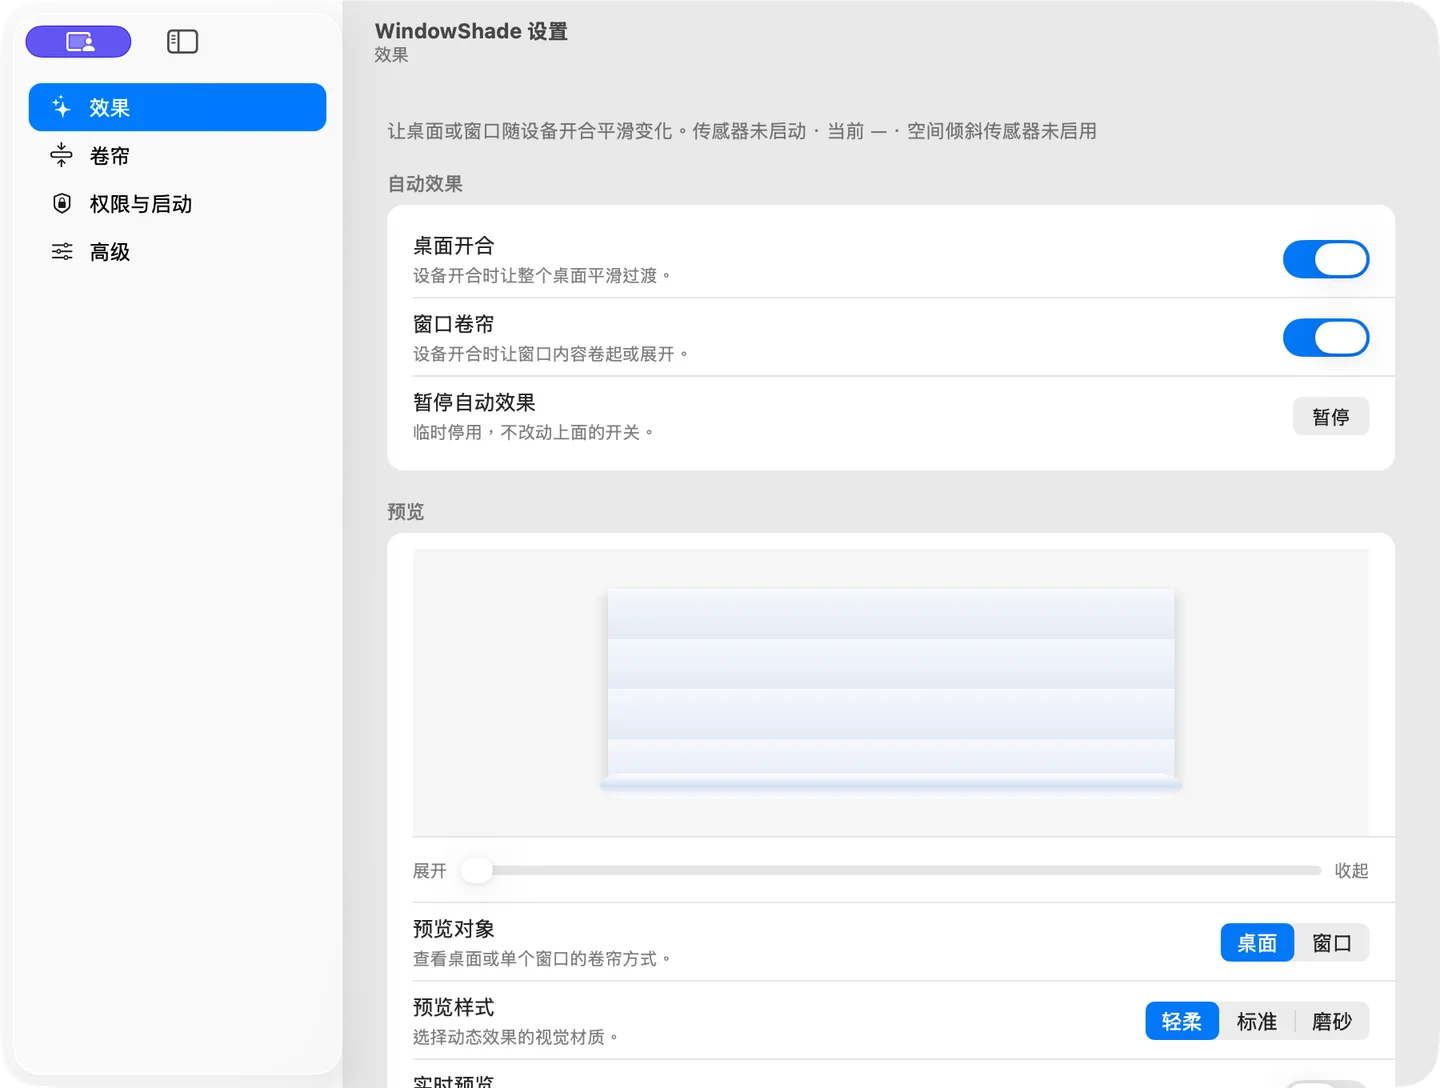
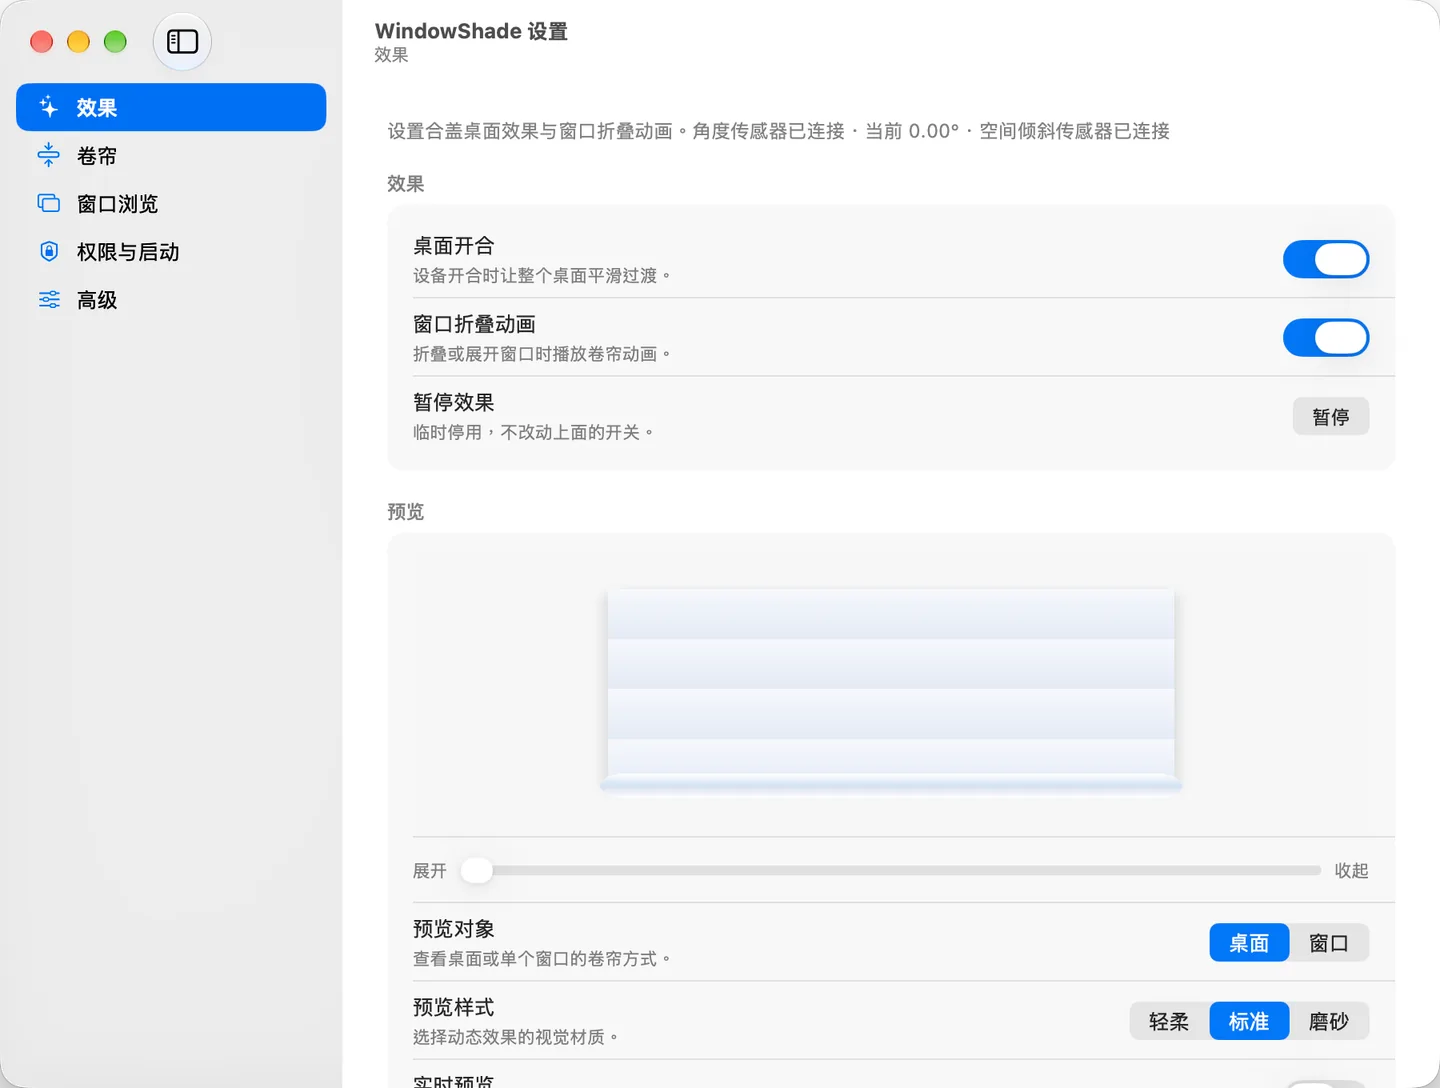
Rework the site hero, copy, and settings screenshot
The hero art was an abstract render that no longer described the app.
It is now a composition drawn with the site's own tokens (`.hero-stage`):
a window rolled into a strip, a pinned window, and a panel of windows
opened from a Dock icon. It has no text, follows the light and dark
theme, and stays sharp; `hero.webp` is a 1536 x 1024 render of the same
markup, kept for og:image. The old hand-drawn hero.svg and the
image-generation prompt file are gone.

The title and eyebrow now describe what the app does today: roll a
window away, pin what has to stay visible, or browse every window behind
a Dock icon. The closing line, meta description, and settings copy follow.

The settings section uses the author's real v1.0.12 screenshot (cropped
to the window, 1440 x 1088). The dark variant and the theme-swapping code
went away with it, and the caption no longer claims to follow the system
appearance.

deployment.json records the files served by
https://b32c91de.windowshade.pages.dev.

diff --git a/site/style.css b/site/style.css
@@ -40,6 +40,54 @@
 @media(max-width:767px){.pinning{grid-template-columns:1fr;gap:32px}.section-note{font-size:13px;max-width:430px;margin-top:18px}.pin-desk{height:300px;border-radius:18px}.pin-source{left:16px;width:82%}.pin-source strong{font-size:17px;padding:22px 18px 30px}.pin-work{right:14px;width:82%;top:112px}.shortcuts{padding-top:12px}.shortcut-list{grid-template-columns:1fr;margin-top:26px}.shortcut-list li{padding:18px 0;gap:16px;font-size:13px}.shortcut-list kbd{min-width:92px;font-size:12px;padding:7px 8px}.trust-body p{font-size:14px}}
 @media(max-width:370px){.shortcut-list kbd{min-width:82px;font-size:11px}.pin-desk{height:280px}}
 
+/* Hero stage: the app's four moves, drawn with the same tokens as the demos.
+   No bitmap, no text: it follows the light/dark theme and stays sharp. */
+.hero-stage{position:absolute;inset:0;background:var(--soft);overflow:hidden}
+.hero-stage::after{content:"";position:absolute;inset:0;background:radial-gradient(120% 80% at 68% 18%,color-mix(in srgb,var(--surface) 70%,transparent),transparent 62%);pointer-events:none}
+.stage-card{position:absolute;background:var(--surface);border:1px solid var(--line);border-radius:16px;box-shadow:0 16px 34px var(--shadow)}
+.stage-bar{display:flex;align-items:center;gap:10px;padding:0 14px;height:34px;border-bottom:1px solid var(--line)}
+.stage-dots{display:flex;gap:5px}
+.stage-dots i{width:7px;height:7px;border-radius:50%;background:color-mix(in srgb,var(--muted) 42%,transparent)}
+.stage-line{height:8px;border-radius:4px;background:color-mix(in srgb,var(--muted) 26%,transparent);flex:1;max-width:120px}
+.stage-lines{display:grid;gap:9px;padding:16px 16px 0}
+.stage-lines i{height:8px;border-radius:4px;background:color-mix(in srgb,var(--muted) 18%,transparent)}
+.stage-lines i:nth-child(2){width:92%}
+.stage-lines i:nth-child(3){width:78%}
+.stage-lines i:last-child{width:56%}
+
+.stage-sheet{left:2%;top:6%;width:38%;transform:rotate(-3.4deg);z-index:1}
+.stage-sheet .stage-block{margin:16px;height:84px;border-radius:10px;background:color-mix(in srgb,var(--accent) 10%,var(--surface))}
+
+.stage-strip{left:5%;top:32%;width:54%;transform:rotate(-0.7deg);z-index:6}
+.stage-strip .stage-bar{border-bottom:0;height:46px;border-radius:16px 16px 0 0}
+.stage-tube{position:relative;height:62px;border-radius:0 0 31px 31px;background:linear-gradient(180deg,var(--surface) 0%,color-mix(in srgb,var(--surface) 82%,var(--soft)) 58%,color-mix(in srgb,var(--line) 70%,var(--surface)) 100%);border-top:1px solid color-mix(in srgb,var(--line) 60%,transparent)}
+.stage-tube::after{content:"";position:absolute;left:6px;right:6px;top:5px;height:12px;border-radius:999px;background:color-mix(in srgb,var(--surface) 88%,transparent)}
+.stage-cap{position:absolute;left:-2px;top:50%;transform:translateY(-50%);width:62px;height:62px;border-radius:50%;background:radial-gradient(circle at 42% 38%,var(--surface),color-mix(in srgb,var(--accent) 16%,var(--surface)) 62%,color-mix(in srgb,var(--accent) 26%,var(--surface)));border:1px solid color-mix(in srgb,var(--line) 80%,transparent);box-shadow:inset 0 0 0 9px color-mix(in srgb,var(--surface) 70%,transparent)}
+
+.stage-pinned{right:5%;top:9%;width:34%;transform:rotate(2.4deg);z-index:4;outline:2px solid color-mix(in srgb,var(--accent) 34%,transparent);outline-offset:3px;border-radius:18px}
+.stage-pinned .stage-blocks{display:grid;grid-template-columns:1fr 1fr;gap:10px;padding:14px 16px 16px}
+.stage-pinned .stage-blocks i{height:56px;border-radius:10px;background:color-mix(in srgb,var(--accent) 10%,var(--surface))}
+.stage-pinned .stage-blocks i:last-child{background:color-mix(in srgb,var(--muted) 12%,var(--surface))}
+
+.stage-dock{position:absolute;left:10%;bottom:6%;width:46%;height:13%;border-radius:22px;background:color-mix(in srgb,var(--surface) 82%,transparent);border:1px solid var(--line);box-shadow:0 14px 30px var(--shadow);display:flex;align-items:center;justify-content:center;gap:10px;z-index:3}
+.stage-dock i{width:11%;aspect-ratio:1;border-radius:22%;background:color-mix(in srgb,var(--muted) 16%,var(--surface))}
+.stage-dock i:nth-child(2),.stage-dock i:nth-child(5){background:color-mix(in srgb,var(--accent) 16%,var(--surface))}
+.stage-dock i.is-hovered{background:var(--surface);border:2px solid color-mix(in srgb,var(--accent) 40%,transparent);transform:translateY(-9%);box-shadow:0 8px 16px var(--shadow)}
+
+.stage-panel{right:5%;top:52%;width:36%;z-index:5}
+.stage-panel .stage-panel-head{display:flex;justify-content:space-between;gap:12px;padding:12px 14px 8px;border-bottom:1px solid var(--line)}
+.stage-panel .stage-panel-head i{height:8px;border-radius:4px;background:color-mix(in srgb,var(--muted) 28%,transparent)}
+.stage-panel .stage-panel-head i:first-child{width:38%}
+.stage-panel .stage-panel-head i:last-child{width:18%;background:color-mix(in srgb,var(--muted) 16%,transparent)}
+.stage-panel .stage-panel-list{display:grid;gap:9px;padding:11px 14px 14px;list-style:none;margin:0}
+.stage-panel .stage-panel-list li{display:grid;grid-template-columns:22% 1fr;gap:9px;align-items:center}
+.stage-panel .stage-panel-list i{height:100%;min-height:30px;border-radius:8px;background:color-mix(in srgb,var(--muted) 14%,var(--surface))}
+.stage-panel .stage-panel-list li:first-child i{background:color-mix(in srgb,var(--accent) 14%,var(--surface));border:1px solid color-mix(in srgb,var(--accent) 38%,transparent)}
+.stage-panel .stage-panel-list b{display:block;height:8px;border-radius:4px;background:color-mix(in srgb,var(--muted) 22%,transparent)}
+.stage-panel .stage-panel-list b::after{content:"";display:block;margin-top:7px;width:62%;height:7px;border-radius:4px;background:color-mix(in srgb,var(--muted) 13%,transparent)}
+.stage-pointer{position:absolute;left:50%;bottom:2%;width:0;height:0;border-left:11px solid transparent;border-right:0 solid transparent;border-top:0 solid transparent;border-bottom:26px solid var(--ink);transform:rotate(-18deg);filter:drop-shadow(0 2px 0 var(--surface));z-index:7}
+@media(max-width:767px){.stage-sheet{width:48%}.stage-strip{width:74%;top:30%}.stage-pinned{width:40%;top:7%}.stage-panel{width:40%;top:54%}.stage-dock{left:8%;width:54%}}
+
 /* Window browsing: the fourth surface shares the shading/pinning rhythm. */
 .browsing{display:grid;grid-template-columns:.78fr 1.22fr;gap:8%;align-items:center;border-top:1px solid var(--line)}
 .browse-points{list-style:none;margin:26px 0 0;padding:0;display:grid;gap:18px;max-width:360px}

diff --git a/site/app.js b/site/app.js
@@ -1,15 +1,10 @@
 const root = document.documentElement;
 const darkPreference = matchMedia('(prefers-color-scheme: dark)');
-const settings = document.querySelector('#settings-image');
 let manualTheme = null;
 try { manualTheme = localStorage.getItem('windowshade-theme'); } catch {}
 if (manualTheme === 'light' || manualTheme === 'dark') root.dataset.theme = manualTheme;
 function syncTheme() {
   const dark = root.dataset.theme ? root.dataset.theme === 'dark' : darkPreference.matches;
-  if (settings) {
-    settings.parentElement.querySelector('source')?.remove();
-    settings.src = `/media/settings${dark ? '-dark' : ''}.webp`;
-  }
   document.querySelector('.theme')?.setAttribute('aria-pressed', String(dark));
 }
 syncTheme();

diff --git a/site/README.md b/site/README.md
@@ -33,9 +33,9 @@ npm run deploy
 
 ## 素材来源
 
-- `hero.webp`：使用内置 image_gen 生成的品牌纸面作品；不是应用截图。完整提示词见 `hero-prompt.txt`。生成后用 Sharp 转 WebP，1536 × 1024。
+- `hero.webp`：由站点自己的 hero 构图渲染而来——标记在 `scripts/build.mjs` 的 `.hero-stage`，样式在 `style.css`，画出“卷成卷帘的窗口 / 钉住的窗口 / 停在 Dock 图标上展开的窗口面板”。它不是应用截图，页面里实时渲染同一套标记，`hero.webp` 只用于 `og:image` 等分享场景（1536 × 1024）。改构图时同步重新截图并转 WebP。
 - `icon.png`：项目原有 `assets/app-icon/windowshade-app-icon.png` 的 192px 版本。
-- `settings.webp` 与 `settings-dark.webp`：项目真实原生设置截图压缩为 WebP。它们是尚未发布的新外观，站内明确标注；更新正式发行版后可同步调整说明。
+- `settings.webp`：项目真实原生设置截图（作者提供，v1.0.12 的“效果”页），压缩为 WebP 1440 × 1088。之前的深色截图已删除：新截图只有浅色外观，页面说明也相应改成不再声称跟随系统明暗。
 - `duo.mp4` 与 `duo-poster.webp`：项目现有 `assets/windowshade-demo.gif` 的无声 H.264 转码和首帧，约 7 秒。已检查整段内容，没有采用含私人聊天的早期 social 截图。
 
 源码 MIT 许可沿用上级仓库。网页里不添加未经核实的用户量、媒体背书、性能数字或付费计划。
